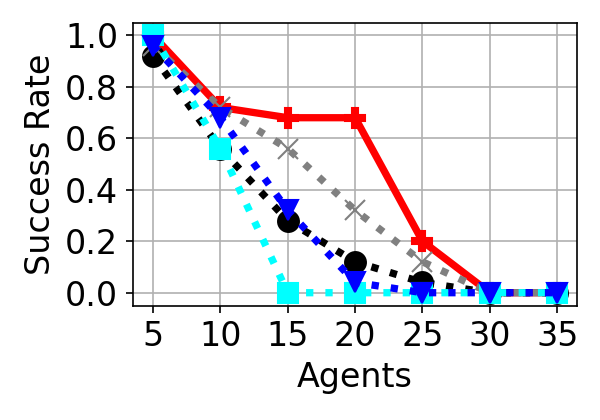
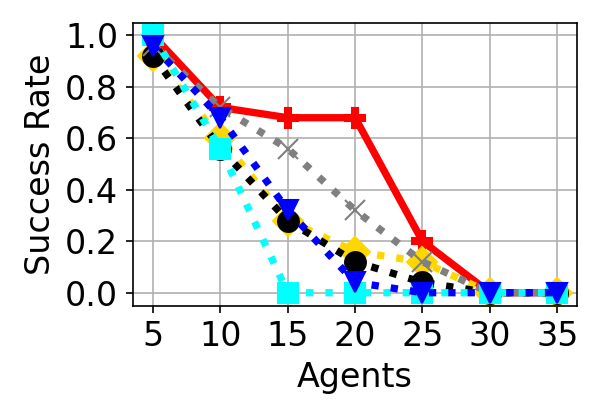
3 obj results now added with BBMOCBS-k (k=1)

diff --git a/scripts/plot_all_benchmarks.py b/scripts/plot_all_benchmarks.py
@@ -6,6 +6,8 @@ def clean_algo_name(algo_name):
     """Clean the algorithm name for better readability on the plots."""
     if algo_name == "LCBS -k 1":
         return "LCBS"
+    elif algo_name == "BBMOCBS-k -k 1":
+        return "BBMOCBS-k (k=1)"
     elif algo_name == "BBMOCBS-k -k 5":
         return "BBMOCBS-k (k=5)"
     elif algo_name == "BBMOCBS-k -k 10":
@@ -30,7 +32,11 @@ map_names = ["empty-32-32",
              "room-64-64-16",
              "room-64-64-8"]
 
+# map_names = ["random-32-32-20",
+#              "room-32-32-4"]
+
 markers = {
+    "BBMOCBS-k (k=1)": 'D',
     "BBMOCBS-k (k=5)": 'o',
     "BBMOCBS-k (k=10)": 'x',
     "BBMOCBS-eps": 's',
@@ -38,6 +44,7 @@ markers = {
     "LCBS": 'P',
 }   
 colors = {
+    "BBMOCBS-k (k=1)": 'gold',
     "BBMOCBS-k (k=5)": 'black',
     "BBMOCBS-k (k=10)": 'gray',
     "BBMOCBS-eps": 'cyan',
@@ -45,12 +52,15 @@ colors = {
     "LCBS": 'red',
 }
 linestyles = {
+    "BBMOCBS-k (k=1)": 'dotted',
     "BBMOCBS-k (k=5)": 'dotted',
     "BBMOCBS-k (k=10)": 'dotted',
     "BBMOCBS-eps": 'dotted', 
     "BBMOCBS-pex": 'dotted',
     "LCBS": 'solid',
 }
+# map_names = ["random-32-32-20",
+#              "room-32-32-4"]
 
 for map_name in map_names:
     # Plot configuration
@@ -62,6 +72,7 @@ for map_name in map_names:
     for algo in data['Algorithm'].unique():
         subset = data[data['Algorithm'] == algo]
         algo_name = clean_algo_name(algo)  
+        print(f"Plotting {algo_name} for {map_name} with {len(subset)} data points")
         plt.plot(
             subset['Agents'],
             subset['SuccessRate'],
@@ -92,11 +103,12 @@ for map_name in map_names:
 # save legend separately as a box with 1 row and 5 columns as a png file
 plt.figure(figsize=(4, 0.5))
 plt.plot([], [], marker='P', color='red', linestyle='solid', label='LCBS', markersize=10, linewidth=3)
+plt.plot([], [], marker='D', color='gold', linestyle='dotted', label='BBMOCBS-k (k=1)', markersize=10, linewidth=3)
 plt.plot([], [], marker='o', color='black', linestyle='dotted', label='BBMOCBS-k (k=5)', markersize=10, linewidth=3)
 plt.plot([], [], marker='x', color='gray', linestyle='dotted', label='BBMOCBS-k (k=10)', markersize=10, linewidth=3)
 plt.plot([], [], marker='s', color='cyan', linestyle='dotted', label='BBMOCBS-eps', markersize=10, linewidth=3)
 plt.plot([], [], marker='v', color='blue', linestyle='dotted', label='BBMOCBS-pex', markersize=10, linewidth=3)
-plt.legend(loc="center", fontsize=16, title_fontsize=16, ncol=5)
+plt.legend(loc="center", fontsize=16, title_fontsize=16, ncol=6)
 plt.axis('off')
 plt.tight_layout()
 plt.savefig("../figures/benchmarks/legend.png", dpi=150, bbox_inches='tight')
